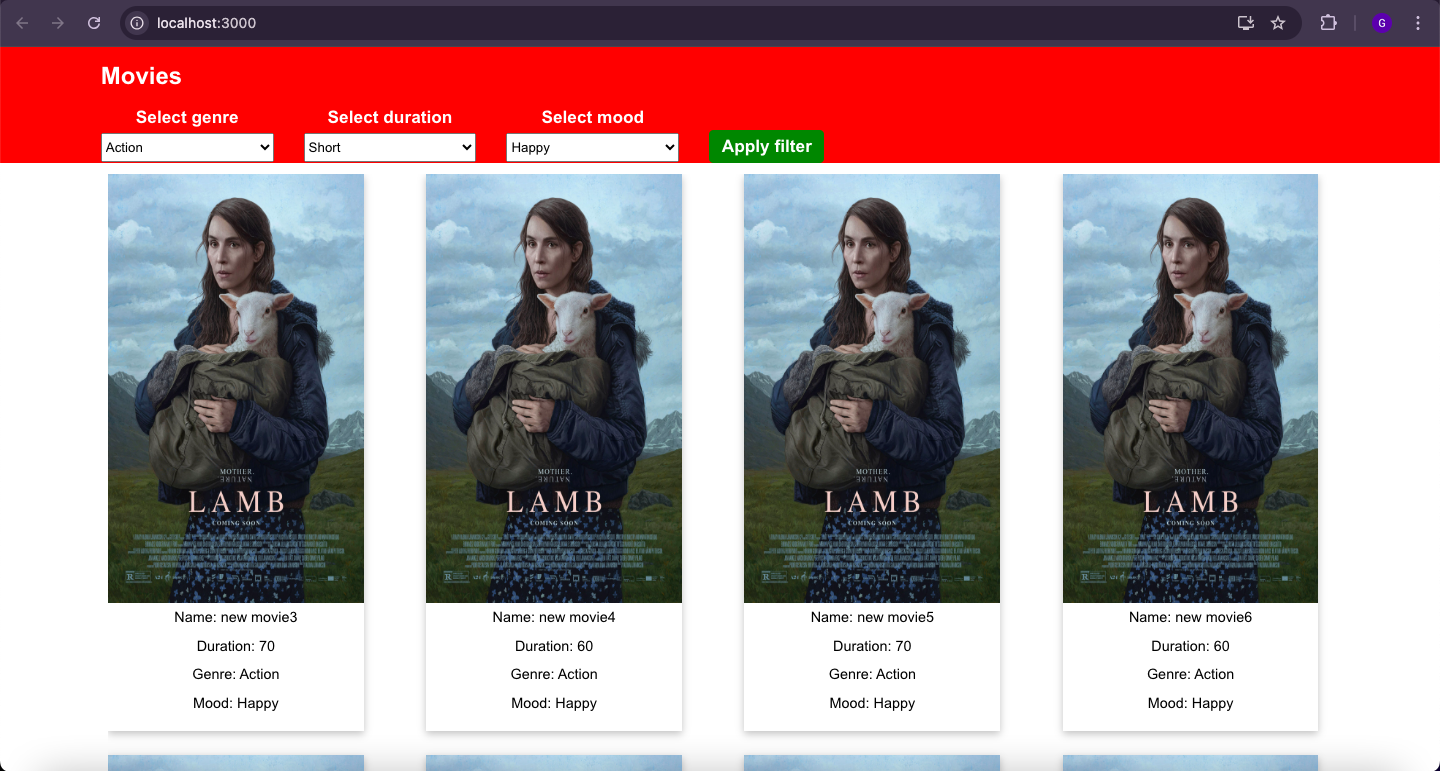
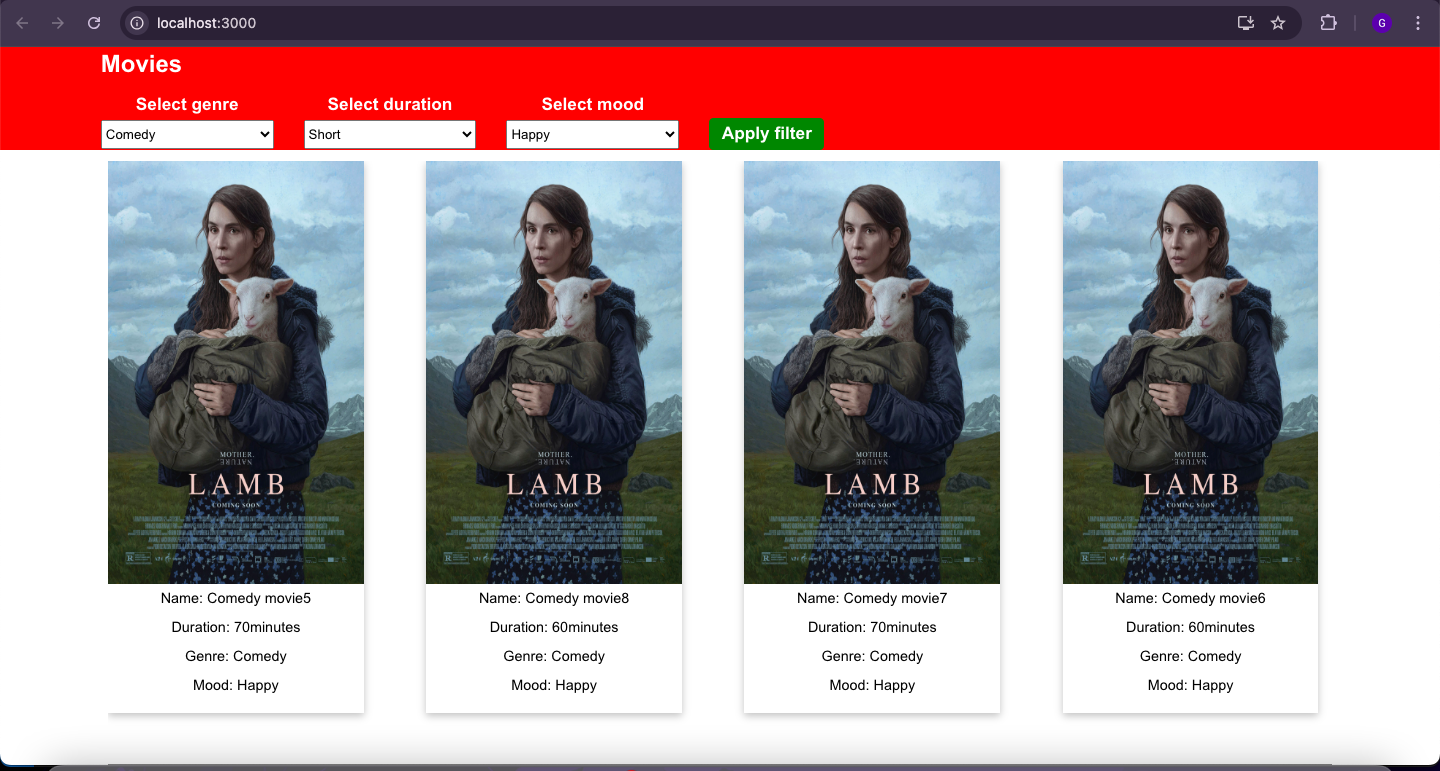
Added minutes text

Changed region(s): [[0.0, 0.0623, 1.0, 1.0]]

diff --git a/src/components/Home.js b/src/components/Home.js
@@ -184,7 +184,7 @@ export const Home = () => {
                             <div key={item._id} className="card">
                                 <img className="img1" srcSet={item.image} alt="" />
                                 <p>Name: {item.title}</p>
-                                <p>Duration: {item.duration}</p>
+                                <p>Duration: {item.duration}minutes</p>
                                 <p>Genre: {item.genre}</p>
                                 <p>Mood: {item.mood}</p>
                             </div>
